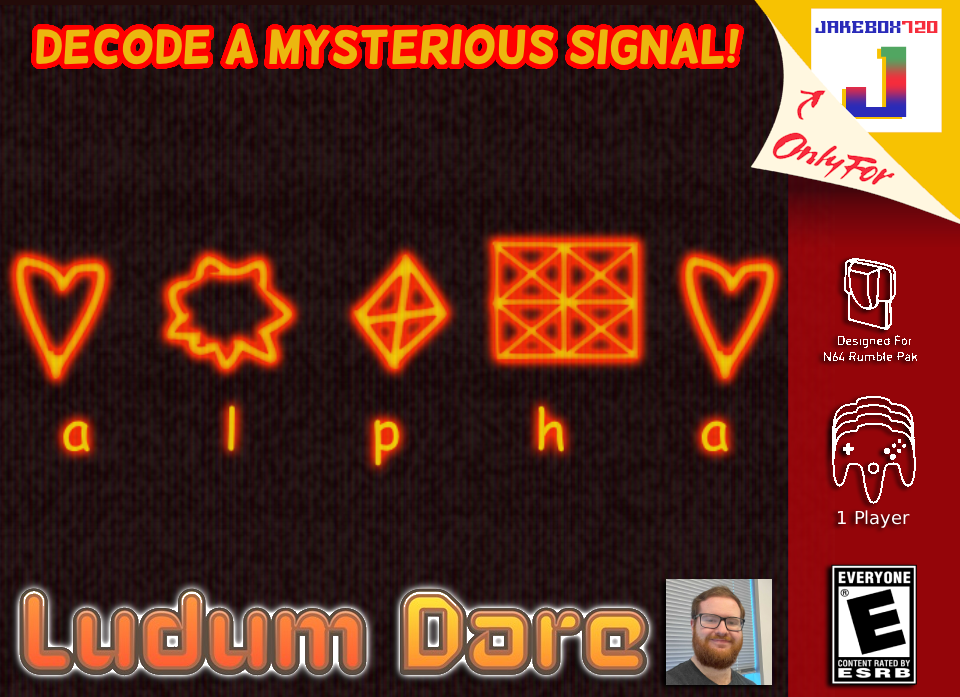
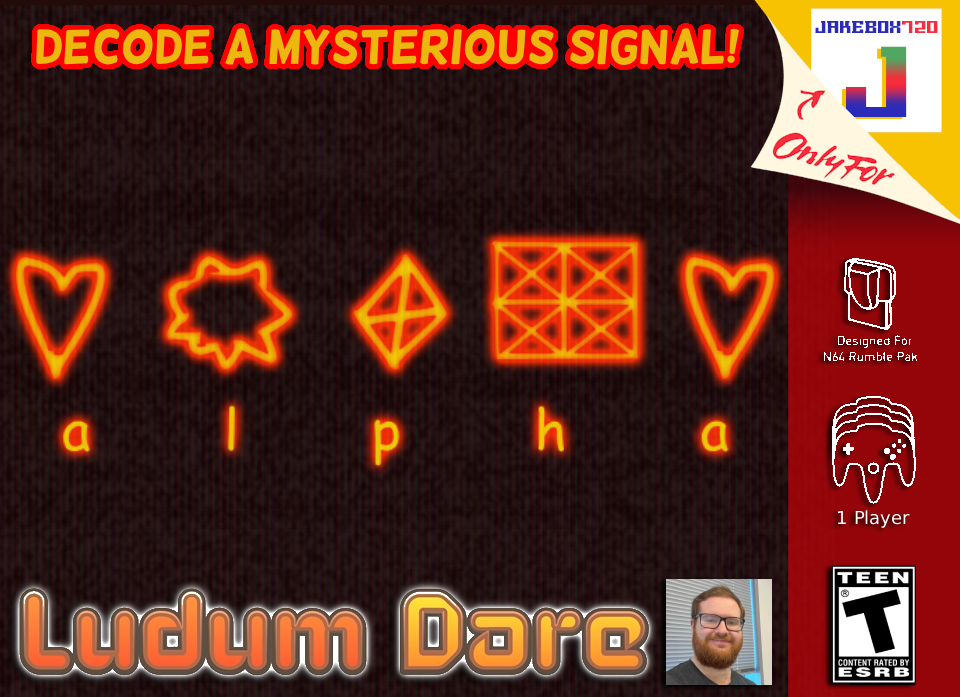
CXR

Changed region(s): [[0.8438, 0.7834, 0.9688, 0.9943]]

diff --git a/index.html b/index.html
@@ -18,6 +18,9 @@
                 <h2>Games</h2>
             </div>
             <div class="game_boxes">
+                 <a href="https://jakebarnes.itch.io/cxr">
+                        <img src="\images\game_boxes\ChickensXROAD.webp" alt="Chicken(s) X ROAD">
+                </a>
                 <a href="https://jakebarnes.itch.io/alpha">
                         <img src="images\game_boxes\Alpha.webp" alt="Alpha">
                 </a>
